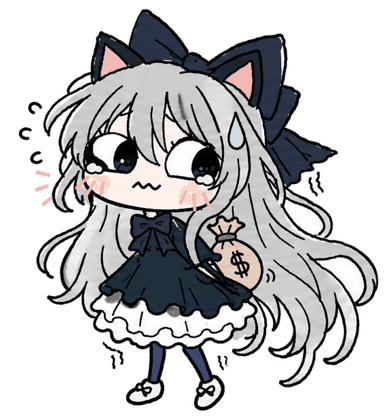
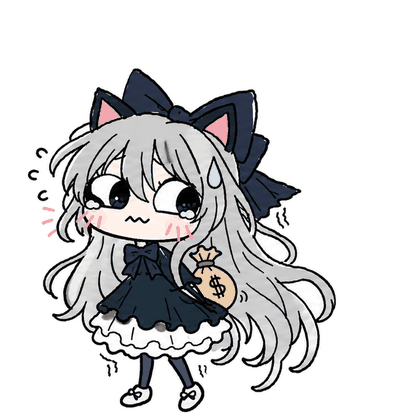
Add transitions and route between animations smoothly

diff --git a/index.html b/index.html
@@ -115,43 +115,73 @@ document.getElementById("mood-btn").onclick = () => {
   if (isBad) show("mood-count", "F".repeat(Math.min(++fs, 50)) + " (" + fs + " respects paid to the exploits)");
   else {
     show("mood-count", "headpats given: " + ++pats + " " + "♡".repeat(Math.min(pats, 20)));
-    playAnim("pat", true);
+    headpat();
   }
 };
 
-// hand-drawn style animations: each one is a list of frames and how long each frame shows (ms)
+// ---------- animations ----------
+// Every animation starts and ends on the neutral pose (or a matching transition),
+// so the director below can chain any of them without a jump.
+const frames = (dir) => [0, 1, 2, 3].map((n) => "images/" + dir + "/" + n + ".png");
 const ANIMS = {
-  good: { frames: ["images/good/0.png", "images/good/1.png", "images/good/2.png", "images/good/3.png"], ms: [700, 350, 140, 450] },
-  pat:  { frames: ["images/pat/0.png", "images/pat/1.png", "images/pat/2.png", "images/pat/3.png"], ms: [220, 260, 380, 600] },
-  // gaming plays through twice each time it's picked up
-  game: { frames: [0, 1, 2, 3, 0, 1, 2, 3].map((n) => "images/game/" + n + ".png"), ms: [450, 200, 350, 650, 350, 200, 350, 900] },
-  bad:  { frames: ["images/bad/0.png", "images/bad/1.png", "images/bad/2.png", "images/bad/3.png"], ms: [450, 180, 380, 220] },
+  good:   { frames: frames("good"),   ms: [700, 350, 140, 450] },
+  bad:    { frames: frames("bad"),    ms: [450, 180, 380, 220] },
+  pat:    { frames: frames("pat"),    ms: [220, 260, 380, 600], cls: "patting" },
+  game:   { frames: frames("game"),   ms: [450, 200, 350, 650], cls: "gaming" },
+  pickup: { frames: frames("pickup"), ms: [250, 300, 300, 250], holds: true },
+  caught: { frames: frames("caught"), ms: [200, 550, 350, 300] },
+  relief: { frames: frames("relief"), ms: [300, 380, 650, 300] },
 };
-for (const a of Object.values(ANIMS)) for (const f of a.frames) new Image().src = f; // preload frames
+// putting the console down = picking it up backwards
+ANIMS.putdown = { frames: [...ANIMS.pickup.frames].reverse(), ms: [...ANIMS.pickup.ms].reverse(), drops: true };
+for (const a of Object.values(ANIMS)) for (const f of a.frames) new Image().src = f; // preload
 
-let animTimer, animName;
-// once = play it a single time, then go back to the idle loop for his current mood
-function playAnim(name, once) {
-  if (animName === name && !once) return;
-  animName = name;
+let animTimer, busy = false, holding = false, mood = null;
+
+// play each step once, in order, then loop `loop` forever
+function play(steps, loop) {
   clearTimeout(animTimer);
   const img = document.getElementById("gezine-img");
-  img.classList.remove("patting", "gaming");
-  void img.offsetWidth; // restarts the squish if headpats are spammed
-  if (name === "pat") img.classList.add("patting");
-  if (name === "game") img.classList.add("gaming");
-  let i = 0;
+  const seq = steps.map((n) => ANIMS[n]);
+  let s = 0, i = 0;
+  busy = seq.length > 0;
+
+  const begin = (a) => {
+    img.classList.remove("patting", "gaming");
+    void img.offsetWidth; // restarts the squish if headpats are spammed
+    if (a.cls) img.classList.add(a.cls);
+    if (a.holds) holding = true;
+  };
+  begin(seq[0] || ANIMS[loop]);
+
   const step = () => {
-    const a = ANIMS[name];
-    if (once && i >= a.frames.length) {
-      animName = null;
-      return playAnim(isBad ? "bad" : "good");
+    while (s < seq.length && i >= seq[s].frames.length) { // finished a step, move to the next
+      if (seq[s].drops) holding = false;
+      s++; i = 0;
+      begin(seq[s] || ANIMS[loop]);
     }
+    if (s >= seq.length) busy = false;
+    const a = seq[s] || ANIMS[loop];
+    if (i >= a.frames.length) i = 0; // looping
     img.src = a.frames[i];
     animTimer = setTimeout(step, a.ms[i]);
-    i = once ? i + 1 : (i + 1) % a.frames.length;
+    i++;
   };
   step();
+}
+
+const putDownFirst = () => (holding ? ["putdown"] : []);
+
+function changeMood(bad) {
+  const target = bad ? "bad" : "good";
+  if (mood === target) return;
+  if (mood === null) play([], target); // first load: no transition
+  else play([...putDownFirst(), bad ? "caught" : "relief"], target);
+  mood = target;
+}
+
+function headpat() {
+  if (mood === "good") play([...putDownFirst(), "pat"], "good");
 }
 
 // John Nintendo loops on his own (only visible when gezine is bad)
@@ -166,13 +196,13 @@ let johnFrame = 0;
 
 // every 20 seconds, if he's being good and just idling, he plays his console for a bit
 setInterval(() => {
-  if (!isBad && animName === "good") playAnim("game", true);
+  if (mood === "good" && !busy) play(["pickup", "game", "game", "putdown"], "good");
 }, 20000);
 
 function setMood(bad) {
   isBad = bad;
   const img = document.getElementById("gezine-img");
-  playAnim(bad ? "bad" : "good");
+  changeMood(bad);
   img.alt = bad ? "gezine looking guilty with a bag of money" : "gezine being a good boy";
   document.getElementById("john").hidden = !bad;
   show("mood-btn", bad ? "Press F to pay respects to the exploits" : "Give gezine headpats");
@@ -199,7 +229,8 @@ async function check() {
 
     // add ?test=good or ?test=bad to the address to preview each mood
     const test = new URLSearchParams(location.search).get("test");
-    if (test) data.badBoy = test === "bad";
+    if (test === "good" || test === "bad") data.badBoy = test === "bad";
+    if (test === "flip") data.badBoy = isBad; // keep whatever the flip timer last set
 
     show("verdict", data.badBoy ? "NO. HE HAS BEEN A BAD BOY." : "Yes. For now.");
     show("bubble", data.badBoy ? BAD : GOOD);
@@ -241,6 +272,11 @@ async function check() {
 
 check();
 setInterval(check, 600000); // checks again every 10 minutes
+
+// ?test=flip swaps between good and bad every 10 seconds, to check the transitions
+if (new URLSearchParams(location.search).get("test") === "flip") {
+  setInterval(() => setMood(!isBad), 10000);
+}
 </script>
 
 </body>
